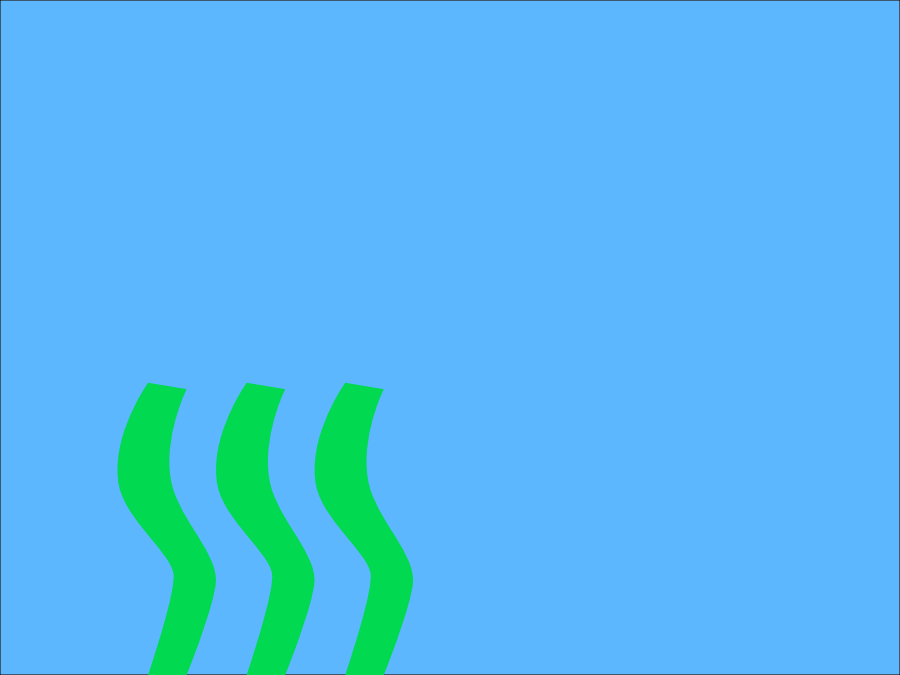
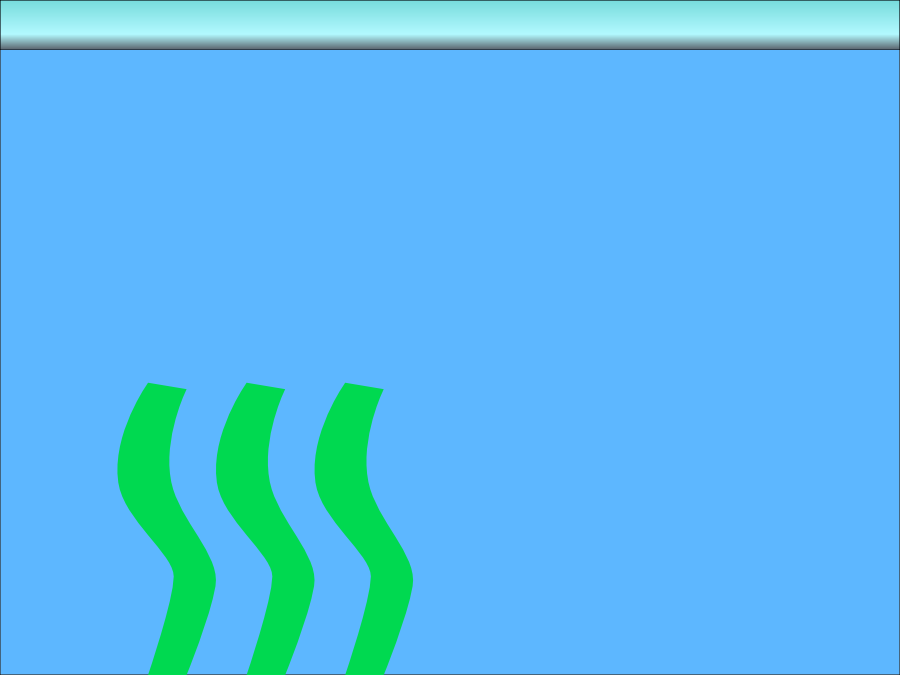
adding control bar, timer, various fixes

Changed region(s): [[0.0, 0.0, 1.0, 0.0933]]

diff --git a/app/guy.rb b/app/guy.rb
@@ -4,7 +4,7 @@ require 'chipmunk'
 
 class Guy
 
-  attr_accessor :alive, :x, :y
+  attr_accessor :alive, :x, :y, :won
 
   COLORS = ['purple', 'blue', 'red']
 
@@ -12,12 +12,13 @@ class Guy
     @window = window
     @x = config[:x]
     @y = config[:y]
-    @color = COLORS[0]
-    @image = Gosu::Image.new(@window, "media/#{@color}-fish.png", false)
+    @color = 0
+    @image = Gosu::Image.new(@window, "media/#{COLORS[@color]}-fish.png", false)
     @angle = 0
     @speed = config[:speed]
     @lives = 3
     @time = Time.now
+    @won = false
 
     # @shape = shape
     # @shape.body.p = CP::Vec2.new(0.0, 0.0) # position
@@ -26,17 +27,23 @@ class Guy
   end
 
   def draw
+    if @won
+      party
+      font = Gosu::Font.new(@window, 'Helvetica', 100)
+      font.draw('You Win!', 400, 400, ZOrder::Text, 1, 1, Gosu::Color::GREEN)
+    end
+
     if @lives > 0
       @image.draw_rot(@x, @y, ZOrder::Guy, @angle)
     else
       font = Gosu::Font.new(@window, 'Helvetica', 100)
-      font.draw('Game Over', 400, 400, ZOrder::Guy, 1, 1, Gosu::Color::RED)
+      font.draw('Game Over', 400, 400, ZOrder::Text, 1, 1, Gosu::Color::RED)
     end
   end
 
   def move_right
     @angle = 90
-    @x += Gosu::offset_x(90, @speed) if @x < 750
+    @x += Gosu::offset_x(90, @speed) if @x < 850
   end
 
   def move_left
@@ -46,24 +53,28 @@ class Guy
 
   def move_up
     @angle = 0
-    @y += Gosu::offset_y(0, @speed) if @y > 50
+    @y += Gosu::offset_y(0, @speed) if @y > 75
   end
 
   def move_down
     @angle = 180
-    @y -= Gosu::offset_y(0, @speed) if @y < 550
+    @y -= Gosu::offset_y(0, @speed) if @y < 625
   end
 
   def die
-    if Time.now - @time > 3
+    if !@won && Time.now - @time > 3
       @time = Time.now
       @lives -= 1 if @lives >= 0
-      @color = COLORS[2 - (@lives-1)]
-      @image = Gosu::Image.new(@window, "media/#{@color}-fish.png", false) if @color
+      @color = 2 - (@lives-1)
+      @image = Gosu::Image.new(@window, "media/#{COLORS[@color]}-fish.png", false) if @color
     end
   end
 
-
+  def party
+    #@color = Time.now.to_i % 3
+    @color = (Time.now.to_f*10).floor % 3
+    @image = Gosu::Image.new(@window, "media/#{COLORS[@color]}-fish.png", false) if @color
+  end
 
 
 

diff --git a/app/game_window.rb b/app/game_window.rb
@@ -6,6 +6,7 @@ class GameWindow < Gosu::Window
 
   HEIGHT = 675
   WIDTH = 900
+  LEVEL_TIME = 10
 
   def initialize(guy_config, shark_config)
 
@@ -14,19 +15,34 @@ class GameWindow < Gosu::Window
     @background_image = Gosu::Image.new(self, "media/ocean.png", true)
     @guy = Guy.new(self, guy_config)
     @shark = Shark.new(self, shark_config)
-
-    @space = CP::Space.new
-    @space.damping = 0.8
+    @start_time = Time.now
 
   end
 
   def draw
     @background_image.draw(0, 0, ZOrder::Background)
     @guy.draw
-    @shark.draw
+    @shark.draw unless @time_remaining <= 0
+
+    font = Gosu::Font.new(self, 'Helvetica', 30)
+    font.draw(@time_remaining, 800, 5, ZOrder::Text, 1, 1, Gosu::Color::RED)
+
+  end
+
+  def win
+   @guy.won = true
   end
 
   def update
+
+    @time_remaining ||= 100
+    if @time_remaining > 0
+      @elapsed_time = Time.now - @start_time
+      @time_remaining = (LEVEL_TIME - @elapsed_time).floor
+    else
+      win
+    end
+
     @guy.move_left if button_down?(123)
     @guy.move_right if button_down?(124)
     @guy.move_down if button_down?(125)
@@ -46,6 +62,7 @@ end
 
 module ZOrder
   Background = 0
-  Shark = 2
-  Guy = 1
+  Text = 1
+  Guy = 2
+  Shark = 3
 end

diff --git a/app/shark.rb b/app/shark.rb
@@ -38,7 +38,7 @@ class Shark
     if @x < 0  && AngleRange.new(180, 0).include?(@angle)
       @angle = 90 - (@angle - 270)
     end
-    if @y < 0 && AngleRange.new(270, 90).include?(@angle)
+    if @y < 100 && AngleRange.new(270, 90).include?(@angle)
       @angle = 180 - (@angle - 360)
     end
     if @y > @window.height && AngleRange.new(90, 270).include?(@angle)

diff --git a/app/run.rb b/app/run.rb
@@ -1,7 +1,7 @@
 require './app/game_window'
 
-guy_config = {:image => 'purple-fish', :speed => 3, :x => 400, :y => 100}
-shark_config = {x: 200, y: 200, speed: 4}
+guy_config = {:image => 'purple-fish', :speed => 4, :x => 400, :y => 100}
+shark_config = {x: 200, y: 200, speed: 3}
 
 window = GameWindow.new(guy_config, shark_config)
 window.show
